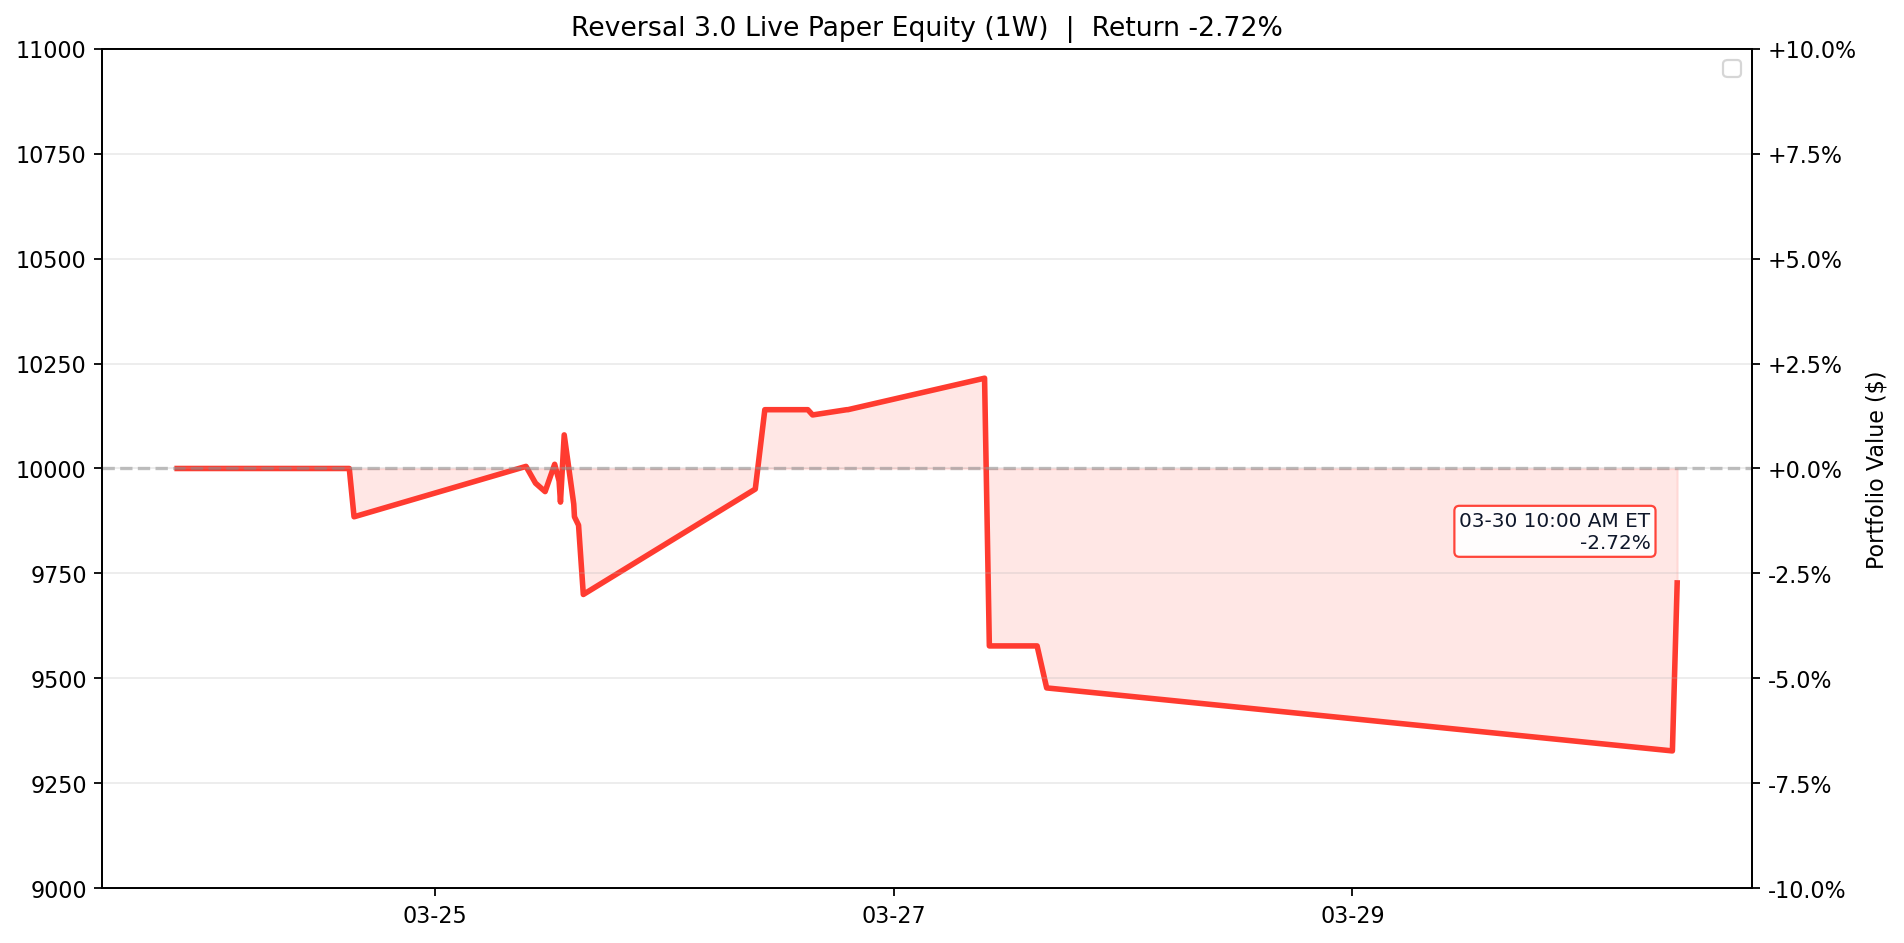
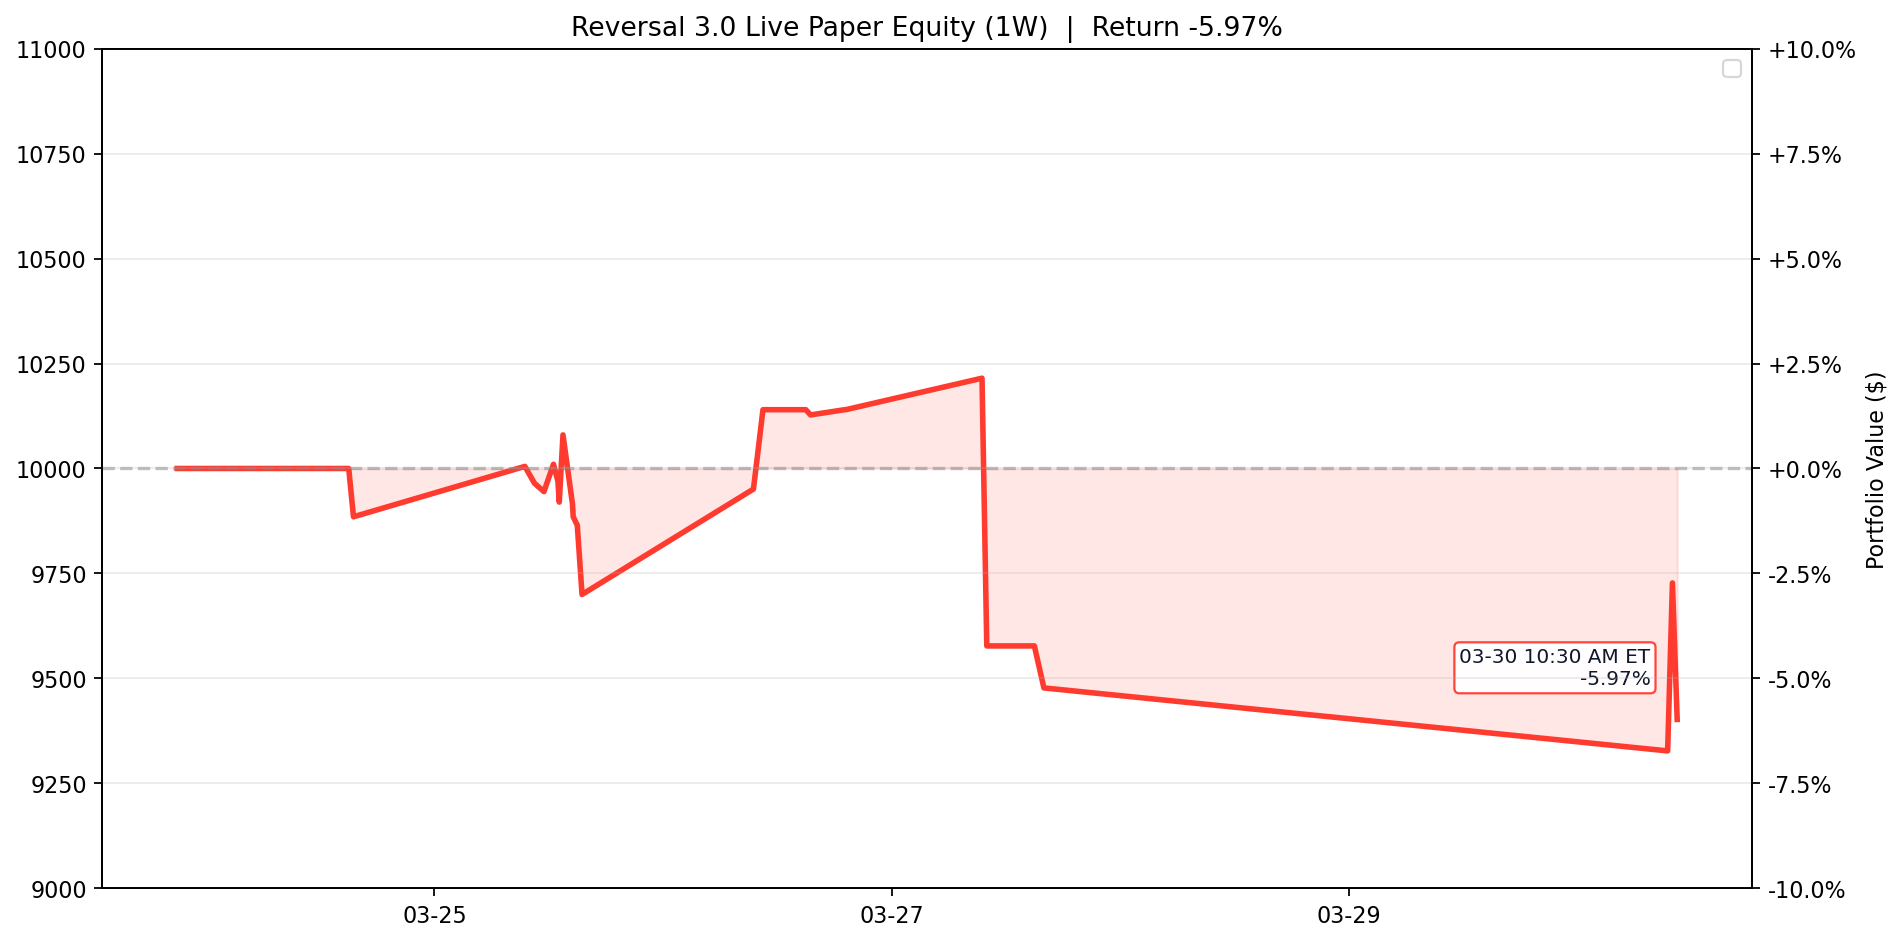
Update Reversal 3.0 live paper test 2026-03-30 10:30 ET

diff --git a/results/reversal_3_0_live/README.md b/results/reversal_3_0_live/README.md
@@ -1,7 +1,7 @@
 # Reversal 3.0 Live Paper Test
 
-Last updated (ET): `2026-03-30 10:00:03 EDT`
-Last processed slot: `manage_1000`
+Last updated (ET): `2026-03-30 10:30:00 EDT`
+Last processed slot: `manage_1030`
 
 ## Active Configuration
 
@@ -20,16 +20,16 @@ Last processed slot: `manage_1000`
 ## Portfolio Snapshot
 
 - Cash: `$4,977.50`
-- Equity: `$9,727.50`
+- Equity: `$9,402.50`
 - Realized PnL: `$-422.50`
-- Unrealized PnL: `$150.00`
+- Unrealized PnL: `$-175.00`
 - Open positions: `1`
 
 ## Open Positions
 
 ```text
 ticker    contract_symbol entry_trade_date  business_days_held  entry_option_price  current_option_price  entry_spot  current_spot  unrealized_pnl  unrealized_return_pct  success_rate  matched_signals  current_drop_pct  entry_iv_pct  current_iv_pct  rolling_sigma_20d_pct
-   HON HON260501C00225000       2026-03-27                   1                 9.2                   9.5      223.64        224.48           150.0                   3.26         100.0               20              0.68         39.47           42.16                  24.88
+   HON HON260501C00225000       2026-03-27                   1                 9.2                  8.85      223.64         224.4          -175.0                   -3.8         100.0               20              0.68         39.47           37.46                  24.88
 ```
 
 ## Today's Closed Trades (2026-03-30)
@@ -40,18 +40,18 @@ _None_
 
 ```text
 ticker  success_rate_%  matched_signals  current_drop_%  target_rebound_$  target_price  rolling_sigma_20d_%  call_candidate
-   WDC           96.00               25            3.03              5.85        272.83                77.70            True
-  INTC           93.94               33            1.52              0.46         42.93                64.48            True
-   STX           92.31               26            2.65              7.05        377.05                75.41            True
-  NVDA           91.67               36            0.61              0.72        167.21                32.71            True
-  AVGO           91.30               23            1.95              4.11        298.92                39.28            True
-  AMAT           86.67               15            2.55              6.03        334.59                54.89            True
-  PLTR           86.21               29            1.59              1.60        142.38                49.53            True
-  MRVL           85.71               14            3.86              2.56         93.78                75.87            True
-  MCHP           84.85               33            0.90              0.39         61.83                36.06            True
-  KLAC           84.21               19            2.52             25.50       1432.28                53.64            True
-    MU           83.33               18            3.59              8.97        353.22                71.54            True
-  ASML           83.33               18            2.47             22.56       1292.80                47.46            True
+   WDC           95.24               21            3.83              7.38        272.18                77.70            True
+  INTC           93.94               33            1.74              0.52         42.91                64.48            True
+  AVGO           92.31               26            1.69              3.56        299.16                39.28            True
+   STX           91.67               24            2.99              7.96        376.66                75.41            True
+  PLTR           88.24               34            1.30              1.30        142.50                49.53            True
+  ASML           84.21               19            2.08             18.92       1294.36                47.46            True
+  MCHP           83.87               31            1.05              0.46         61.80                36.06            True
+  AMAT           83.33               18            2.37              5.59        334.78                54.89            True
+   ADI           82.35               34            0.55              1.19        306.93                32.30            True
+  MRVL           81.25               16            3.55              2.36         93.87                75.87            True
+  LRCX           81.25               16            3.29              4.87        209.32                65.88            True
+  KLAC           80.00               15            2.95             29.78       1430.45                53.64            True
 ```
 
 ## Recent Events

diff --git a/README.md b/README.md
@@ -3,15 +3,15 @@
 <!-- reversal-3.0-live:start -->
 ## Reversal 3.0 Live Paper Test
 
-- Last updated (ET): `2026-03-30 10:00:03 EDT`
-- Equity: `$9,727.50` | Realized: `$-422.50` | Unrealized: `$150.00` | Open positions: `1`
+- Last updated (ET): `2026-03-30 10:30:00 EDT`
+- Equity: `$9,402.50` | Realized: `$-422.50` | Unrealized: `$-175.00` | Open positions: `1`
 - Today closed trades: `0`
-- Current slot: `manage_1000`
+- Current slot: `manage_1030`
 - Chart: trailing `1W` with ET timestamps
 
 ```text
 ticker    contract_symbol  current_option_price  unrealized_pnl  unrealized_return_pct  business_days_held
-   HON HON260501C00225000                   9.5           150.0                   3.26                   1
+   HON HON260501C00225000                  8.85          -175.0                   -3.8                   1
 ```
 
 ![Reversal 3.0 Live Equity 1W](assets/reversal_3_0_live_equity.png)
